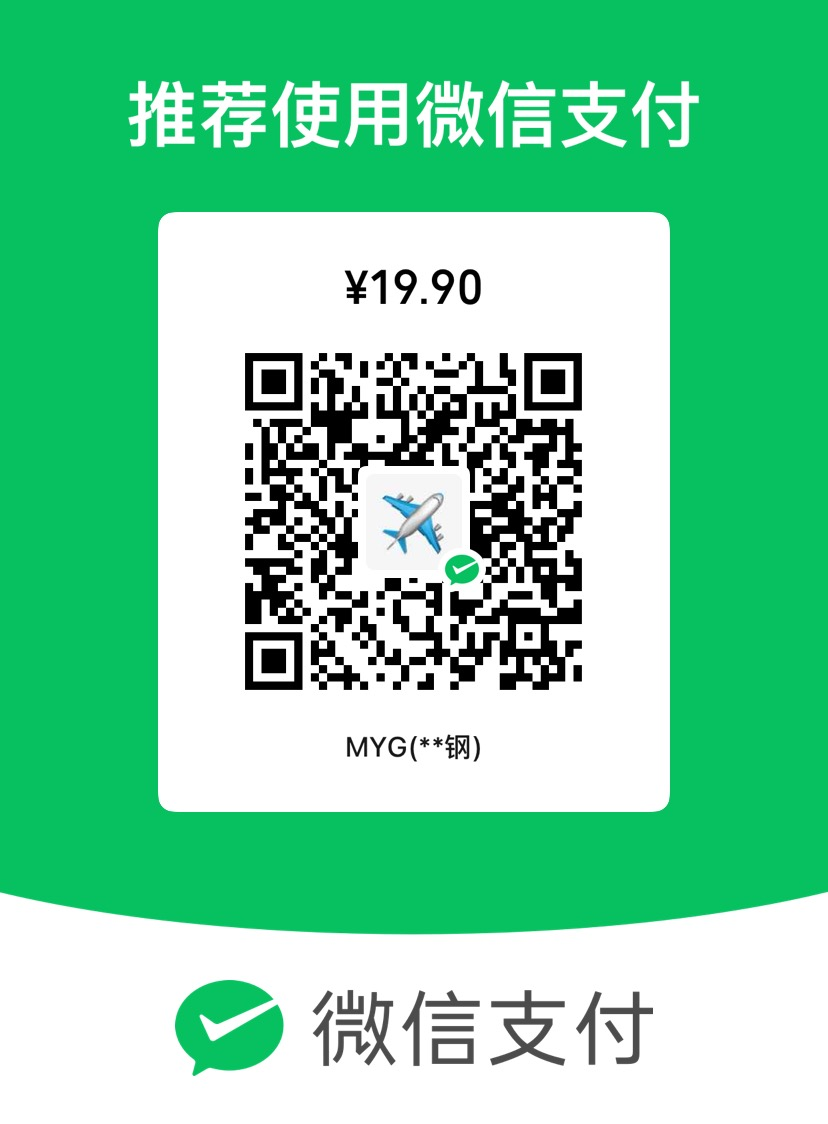
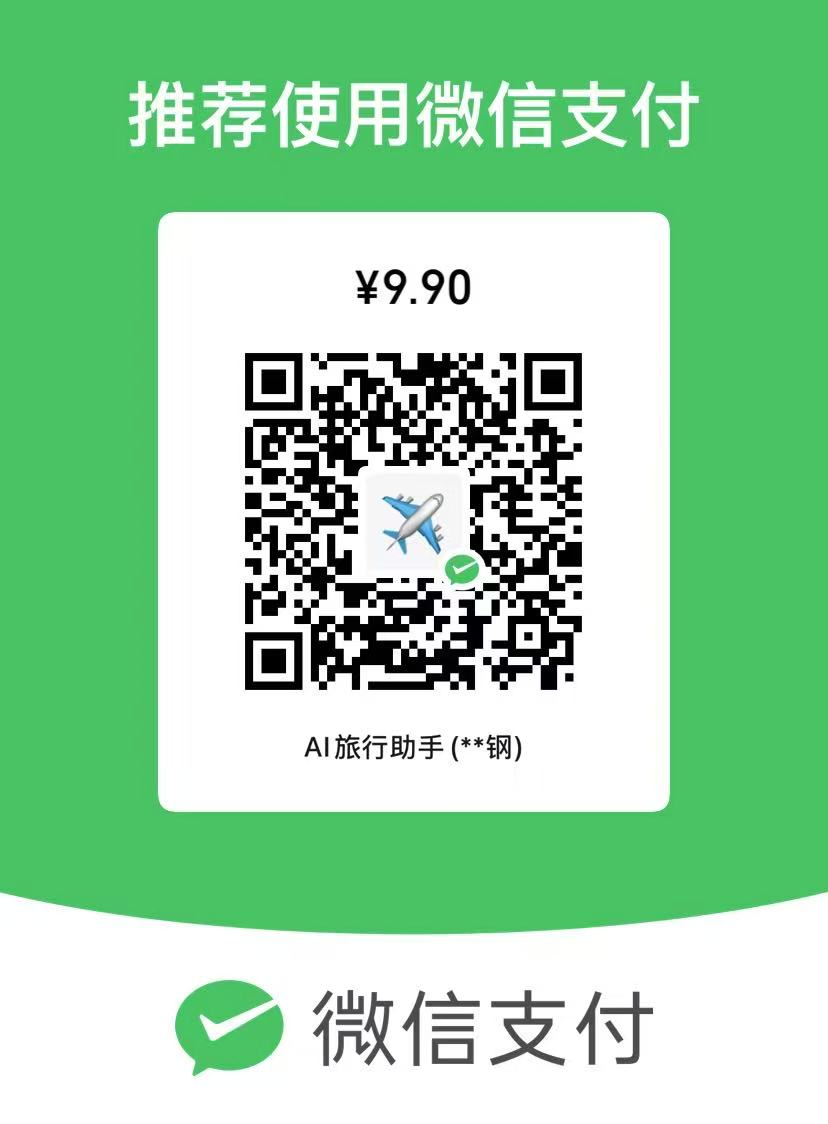
Add files via upload

diff --git a/index.html b/index.html
@@ -337,46 +337,8 @@ textarea {
   </script>
 
 <script>
-   // 注册检查和本地存储
-function checkRegistration() {
-  const user = JSON.parse(localStorage.getItem("userInfo"));
-  const paidDate = localStorage.getItem("paidDate");
-  if (!user || !user.nickname || !user.email) {
-    document.getElementById("registerModal").style.display = "flex";
-    return false;
-  }
-
-	//包月有效
-	if (isPaidValid()) {
-	  return true; 
-	}
-	
-  // 包月已过期，提示“包月已过期”
-  if (paidDate) {
-    alert("⚠ 您的包月已过期，请付费后继续使用。");
-    const pay = document.getElementById("payHint");
-    if (pay) pay.style.display = "block";
-    return false;
-  }
-
-   // 未付费。超出免费次数
-  if (user.usageCount >= 3) {
-      alert("您的免费试用3次已用完，请付费解锁。");
-      const pay = document.getElementById("payHint");
-      if (pay) pay.style.display = "block";
-      return false;
-    }
-
-  return true;
-}
- </script>
-
-<script>
 
 async function generate() {
-  
-  //检查用户注册状态
-  if (!checkRegistration()) return;
   
   const userInput = document.getElementById('inputText').value.trim();
   
@@ -395,6 +357,7 @@ async function generate() {
   paywall.style.display = 'none';
   pdfButton.style.display = 'none';
   payHint.style.display = 'none';
+  localStorage.setItem("pdfPaid", "false");
   generateBtn.disabled = true;
   generateBtn.innerText = "📝 AI生成中…";
   
@@ -424,15 +387,7 @@ ${userInput}
     temperature: 0.7
   })
 });
-
-	const user = JSON.parse(localStorage.getItem('userInfo'));
-	if (user) {
-		user.usageCount = (user.usageCount || 0) + 1;
-		localStorage.setItem('userInfo', JSON.stringify(user));
-	}
-	
-
-    const data = await response.json();
+const data = await response.json();
     if (data && data.choices && data.choices.length > 0) {
     
     localStorage.setItem("hasGenerated", "true");
@@ -470,6 +425,7 @@ ${userInput}
     console.error("Error:", error);
     output.innerText = "❌ AI请求出错，请检查网络连接或请勿息屏，重新点击生成行程。";
     localStorage.setItem("hasGenerated", "false");
+  localStorage.setItem("pdfPaid", "false");
   } finally {
     generateBtn.disabled = false;
     generateBtn.innerText = "📖 AI生成旅游行程";
@@ -530,21 +486,14 @@ function onConfirmPay(paid) {
 
   // ✅ 验证通过后关闭弹窗
   document.getElementById("confirmModal").style.display = "none";
-  alert("🙏 谢谢付费！您可以包月使用。");
-  
-  // 在本地缓存中写入 paidDate = 当前时间
-  localStorage.setItem("paidDate", new Date().toISOString());
+  localStorage.setItem("pdfPaid", "true");
 
   // 显示下载按钮并跳转
   const btn = document.getElementById('unlockButton');
   btn.innerHTML = '<span>✅</span> 已支付，下载行程PDF';
   const downloadBtn = document.getElementById('pdfButton');
   
-if (localStorage.getItem("hasGenerated") === "true") {
-  downloadBtn.style.display = 'inline-block';
-} else {
-  downloadBtn.style.display = 'none';
-}
+downloadBtn.style.display = 'inline-block';
 
   document.getElementById("paywall").style.display = "none";
   document.getElementById("paywall").scrollIntoView({ behavior: "smooth" });
@@ -552,16 +501,12 @@ if (localStorage.getItem("hasGenerated") === "true") {
   </script>
 
 <script>
-   // PDF下载函数，增加权限判断
+   // PDF下载函数，增加单次付费判断
 function doDownloadPDF() {
-  const paidDate = localStorage.getItem("paidDate");
+  const paid = localStorage.getItem("pdfPaid") === "true";
 
-  if (paidDate) {
-    const expire = new Date(paidDate);
-    expire.setDate(expire.getDate() + 30);
-    if (new Date() <= expire) {
-      return exportPDF();
-    }
+  if (paid) {
+    return exportPDF();
   }
 
   showPayment();
@@ -596,13 +541,6 @@ function exportPDF() {
   html2pdf().set(opt).from(element).save();
 }
 
-function isPaidValid() {
-  const paidDate = localStorage.getItem("paidDate");
-  if (!paidDate) return false;
-  const expire = new Date(paidDate);
-  expire.setDate(expire.getDate() + 30);
-  return new Date() <= expire;
-}
 
   </script>
 
@@ -612,6 +550,7 @@ window.onload = function () {
   // 页面加载时初始化生成状态为 false
   try {
   localStorage.setItem("hasGenerated", "false");
+  localStorage.setItem("pdfPaid", "false");
   } catch (e) {
   console.warn("localStorage 不可用", e);
   }
@@ -626,35 +565,17 @@ window.onload = function () {
  */
 
 function updateButtonDisplayAfterGenerate() {
-  const paidDate = localStorage.getItem("paidDate");
   const hasGenerated = localStorage.getItem("hasGenerated") === "true";
-  const user = JSON.parse(localStorage.getItem("userInfo") || "{}");
-  const usageCount = user.usageCount || 0;
   const pdfButton = document.getElementById("pdfButton");
   const payHint = document.getElementById("payHint");
 
-  let isPaid = false;
-  if (paidDate) {
-    const expire = new Date(paidDate);
-    expire.setDate(expire.getDate() + 30);
-    if (new Date() <= expire) {
-      isPaid = true;
-    }
-  }
-
-  // 只要已生成行程，就显示 PDF 按钮；未付费时点击后弹出支付窗口
   if (hasGenerated) {
     pdfButton.style.display = "inline-block";
+    payHint.style.display = "block";
   } else {
     pdfButton.style.display = "none";
+    payHint.style.display = "none";
   }
-
-  // 超出免费次数且未付费，才显示支付提示
-	if (hasGenerated && !isPaid && usageCount >= 3) {
-	  payHint.style.display = "block";
-	} else {
-	  payHint.style.display = "none";
-	}
 }
   </script>
 <script>
@@ -662,6 +583,9 @@ function updateButtonDisplayAfterGenerate() {
   document.getElementById('qrPopup').style.display = 'flex';
 }
   </script>
+
+
+
 </head>
 <body>
 <div class="container">
@@ -670,9 +594,9 @@ function updateButtonDisplayAfterGenerate() {
 </h2>
 <div class="quick-input-hint" style="background:#e3f2fd; padding:16px 20px; border-radius:12px; margin-bottom:20px; font-size:16px; line-height:1.7;">
 🧳 1分钟一键搞定行程安排！🚀<br/>
-📝 输出行程PDF文件，可保存，可分享👍<br/>
+📝 输出行程PDF文件，可保存可分享👍<br/>
 💡 节省做攻略的时间，出行前轻松搞定👌<br/>
-💰 免费生成行程3次，包月费用19.9元🎁
+💰 免费生成行程，下载PDF支付9.9元🎁
 </div>
 <textarea id="inputText" placeholder="请输入您的旅行需求，例如：
 东京到大阪6天自由行，3人，4月1日到6日，以美食和文化体验为主，预算每人1万人民币" rows="5"></textarea>
@@ -716,30 +640,15 @@ function updateButtonDisplayAfterGenerate() {
       </p>
 </div>
 </div>
-<!-- 注册弹窗 -->
-<div id="registerModal" style="display:none; position:fixed; top:0; left:0; width:100%; height:100%; background-color:rgba(0,0,0,0.4); z-index:10000; justify-content:center; align-items:center;">
-<div style="background:white; padding:24px 20px; border-radius:12px; text-align:center; width:90%; max-width:360px; box-shadow:0 4px 12px rgba(0,0,0,0.2);">
-<p style="font-size:18px; font-weight:bold; margin-bottom:12px;">
-       📝 请注册，可免费试用AI生成行程3次。
-      </p>
-<input id="nickname" placeholder="请输入昵称" style="width:90%; padding:10px; margin:8px 0; font-size:16px;"/>
-<br>
-<input id="email" placeholder="请输入邮箱" style="width:90%; padding:10px; margin:8px 0; font-size:16px;"/>
-<br>
-<button onclick="submitRegistration()" style="background:#4CAF50; color:white; font-size:16px; padding:10px 24px; border:none; border-radius:8px; margin-top:10px;">
-       注册
-      </button>
-</br></br></div>
-</div>
 </div>
 <div class="pay-hint" id="payHint" style="display:none; text-align:center; margin-top:20px;">
 <p>
 <strong>
-      请点击下方按钮，支付后继续使用（包月¥19.9元）：
+      请点击下方按钮，支付后可下载本次PDF（¥9.9元）：
      </strong>
 </p>
 <button onclick="showPayment()" style="background-color:#ffa726;">
-     微信支付（¥19.9元）
+     微信支付（¥9.9元）
     </button>
 </div>
 <div class="paywall" id="paywall" style="display: none;">
@@ -770,44 +679,6 @@ function updateButtonDisplayAfterGenerate() {
 <footer class="page-footer">
    © 2026 MYG. All rights reserved. 
 </footer>
-
-
-<script>
-async function submitRegistration() {
-  const registerBtn = document.querySelector("button[onclick='submitRegistration()']");
-  if (registerBtn) registerBtn.disabled = true;
-
-  const nickname = document.getElementById("nickname").value.trim();
-  const email = document.getElementById("email").value.trim();
-  if (!nickname || !email) {
-    alert("⚠ 请输入昵称和邮箱");
-    if (registerBtn) registerBtn.disabled = false;
-    return;
-  }
-
-  const emailPattern = /^[^\s@]+@[^\s@]+\.[^\s@]+$/;
-  if (!emailPattern.test(email)) {
-    alert("⚠ 邮箱格式不正确");
-    if (registerBtn) registerBtn.disabled = false;
-    return;
-  }
-
-  try {
-    // 保存初步 userInfo（供 restore 使用）
-    const userInfo = { nickname, email, usageCount: 0 };
-    localStorage.setItem("userInfo", JSON.stringify(userInfo));
-
-    document.getElementById("registerModal").style.display = "none";
-
-  } catch (e) {
-    console.error(e);
-    alert("❌ 注册出错，请稍后再试");
-  } finally {
-    if (registerBtn) registerBtn.disabled = false;
-  }
-}
-
-</script>
 
 
 <script>
